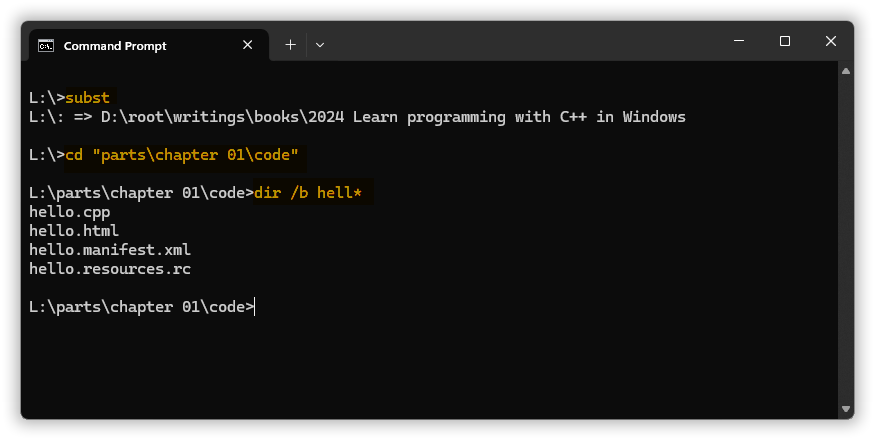
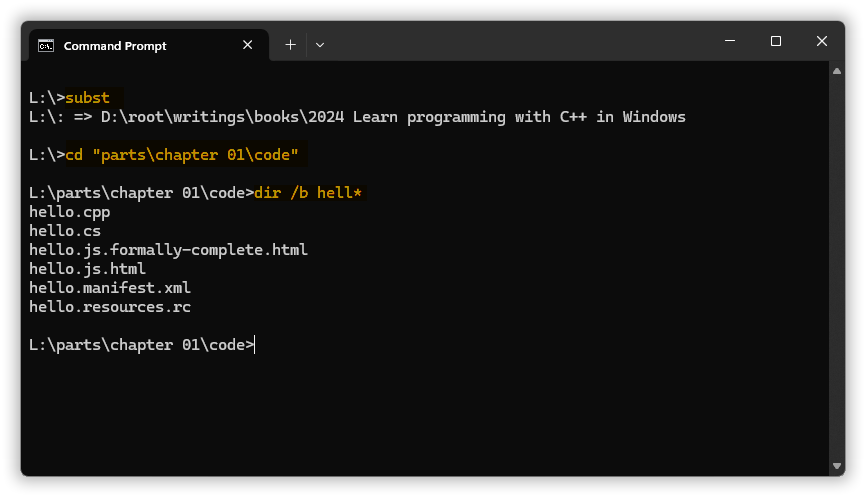
-

diff --git a/parts/chapter 01/01.md b/parts/chapter 01/01.md
@@ -333,11 +333,13 @@ auto main() -> int
 
 Here the `#include` drags in a declaration of the console-oriented `puts` instruction, informing the C++ tools that that instruction does exist.
 
-After using the requisite tools to create a corresponding executable file “text-hello.exe”, the base name of that executable file, “text-hello”, can be used as a command to run it:
+After using the requisite tools to create a corresponding executable file “text-hello.exe” (not shown here), the base name of that executable file, “text-hello”, can be used as a command to run it:
 
 <img src="images/sshot-text-hello.annotated.png" width="66%">
 
-I.e. a new command `text-hello` was created, and that command was created in a way that is very simple when one just has the tools installed and some experience with using them.
+The text produced in the console is called the program’s **output**, here “A textual console hello from C++!”. Correspondingly, if the program asks the user to type in something, that’s **input** to the program. But note: these terms  *can* be used in a more general sense for they do not strongly imply that output necessarily goes to the console, or that input comes from the user typing away on a keyboard, or even that it’s about text. They refer more to the direction of the data flow, out of the program or into the program. So a program may take input from a file, and produce output in another file, and that’s, for example, what a compiler does.
+
+So a new command `text-hello` was created, producing the text “A textual console hello from C++!” as its output, and that command was created in a way that is very simple when one just has the tools installed and some experience with using them.
 
 E.g. with Microsoft’s tools, properly configured, I can use the command `cl text-hello.cpp`, or with the MinGW tools I can use the slightly more elaborate command `g++ text-hello.cpp -o text-hello`. And due to the command interpreter’s support for working this way I don’t even have to type the full `text-hello.cpp` filename. I can just type `t` and press the `Tab` key and it will **auto-complete** the filename (auto-completion is usually also available in a programmers’ editor, for writing the code).
 
@@ -353,7 +355,9 @@ L:\><b><i>cd "parts\chapter 01\code"</i></b>
 
 L:\parts\chapter 01\code><b><i>dir /b hell*</i></b>
 hello.cpp
-hello.html
+hello.cs
+hello.js.formally-complete.html
+hello.js.html
 hello.manifest.xml
 hello.resources.rc
 
@@ -365,7 +369,7 @@ A textual console hello from C++!
 L:\parts\chapter 01\code>|
 </pre>
 
-It’s not perfect: the orange coloring shown in the screenshot earlier, was much more clear. But this is good enough. It will do.
+It’s not perfect: the orange coloring shown in the screenshot earlier, was much more clear. But on Github this is probably the best possible where you can copy the commands text, and it’s ~good enough. It will do.
 
 
 #### 1.2.7 &nbsp;Example: C# text output in a console.
@@ -377,7 +381,7 @@ using System;       // Console
 Console.WriteLine( "A textual console hello from C#!" );
 ```
 
-Output after compiling, i.e. after generating a corresponding executable:
+Output after compiling, i.e. after generating a corresponding executable (not shown here):
 
 <pre>
 L:\parts\chapter 01\code><b><i>text-hello</i></b>
@@ -388,7 +392,7 @@ Such console programs can be very useful as tools for programming work. In fact 
 
 But in addition console output from a GUI program can be useful for *creating* a GUI program, because it lets you see what’s going on on the inside.
 
-There are also other ways to do that, in particular using a special tool called a debugger, but **trace output** to a console, simply placing instructions that produce informative output at critical points in the program, is a technique that’s always available and a technique where you have full control.
+There are also other ways to do that, in particular using a special tool called a debugger, but **trace output** to a console, which means simply placing instructions that produce informative output at critical points in the program, is a technique that’s always available and a technique where you have full control.
 
 
 ### 1.3 &nbsp;Summary & the path from here.
